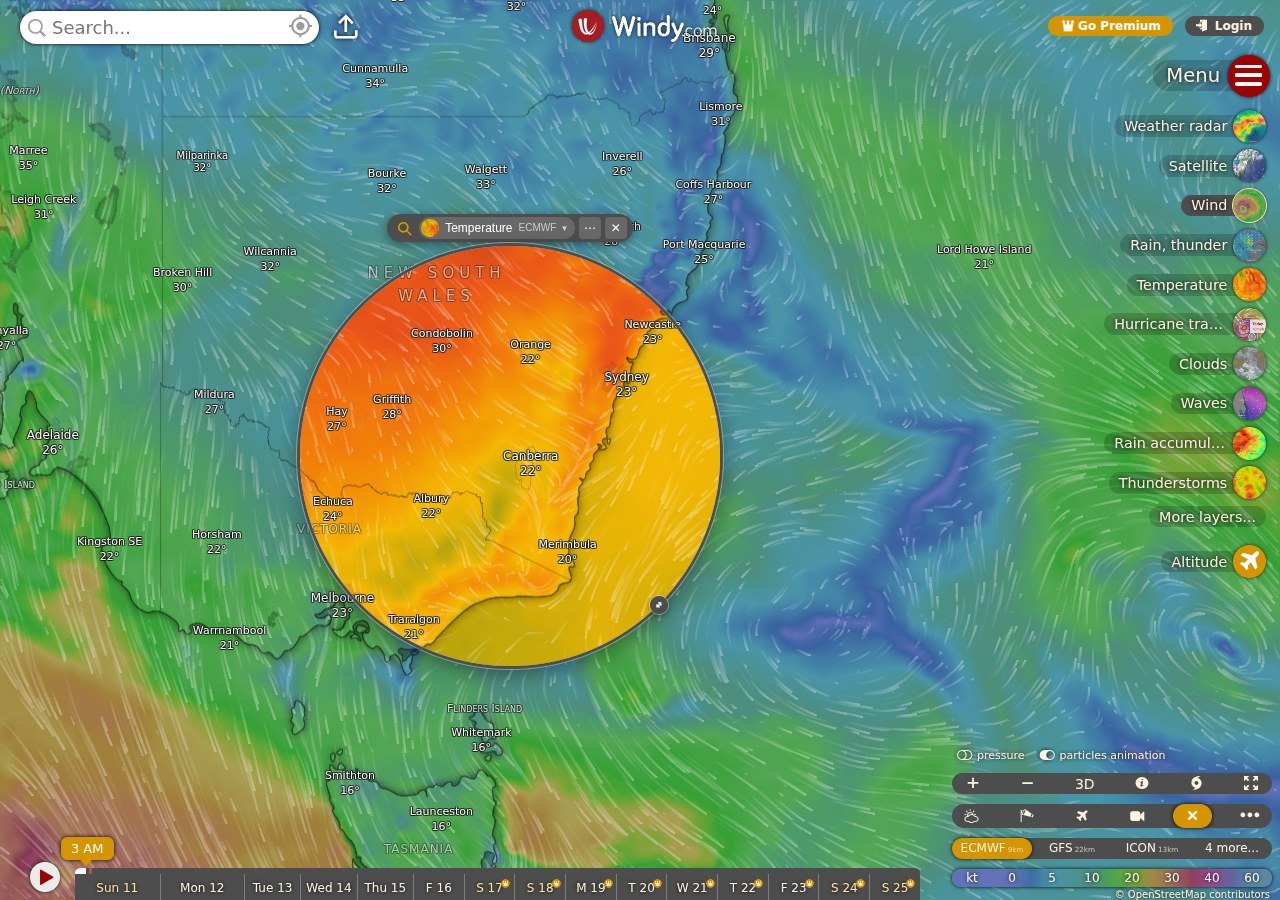
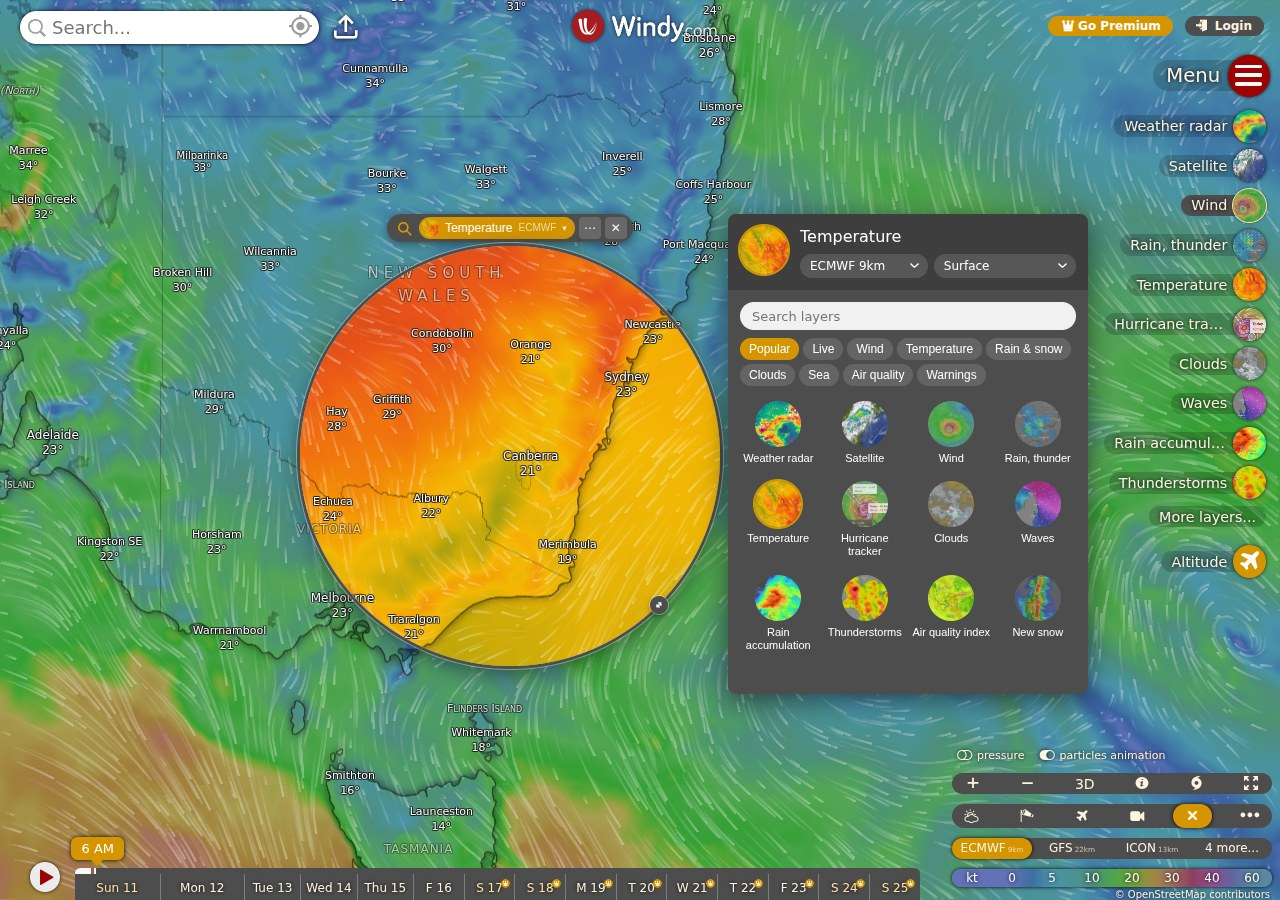
chore: bump 0.1.0 -> 0.1.1 (screenshot shows the layer picker)
The gallery screenshot now shows the lens with its layer picker open,
in the current styling. Windy takes a new screenshot only with a new
version.

Claude-Session: https://claude.ai/code/session_013Agv5ibMLkTMPXvDxum2V2

diff --git a/src/pluginConfig.ts b/src/pluginConfig.ts
@@ -2,7 +2,7 @@ import type { ExternalPluginConfig } from '@windy/interfaces';
 
 const config: ExternalPluginConfig = {
     name: 'windy-plugin-layer-lens',
-    version: '0.1.0',
+    version: '0.1.1',
     icon: '🔎',
     title: 'Layer Lens',
     description:
